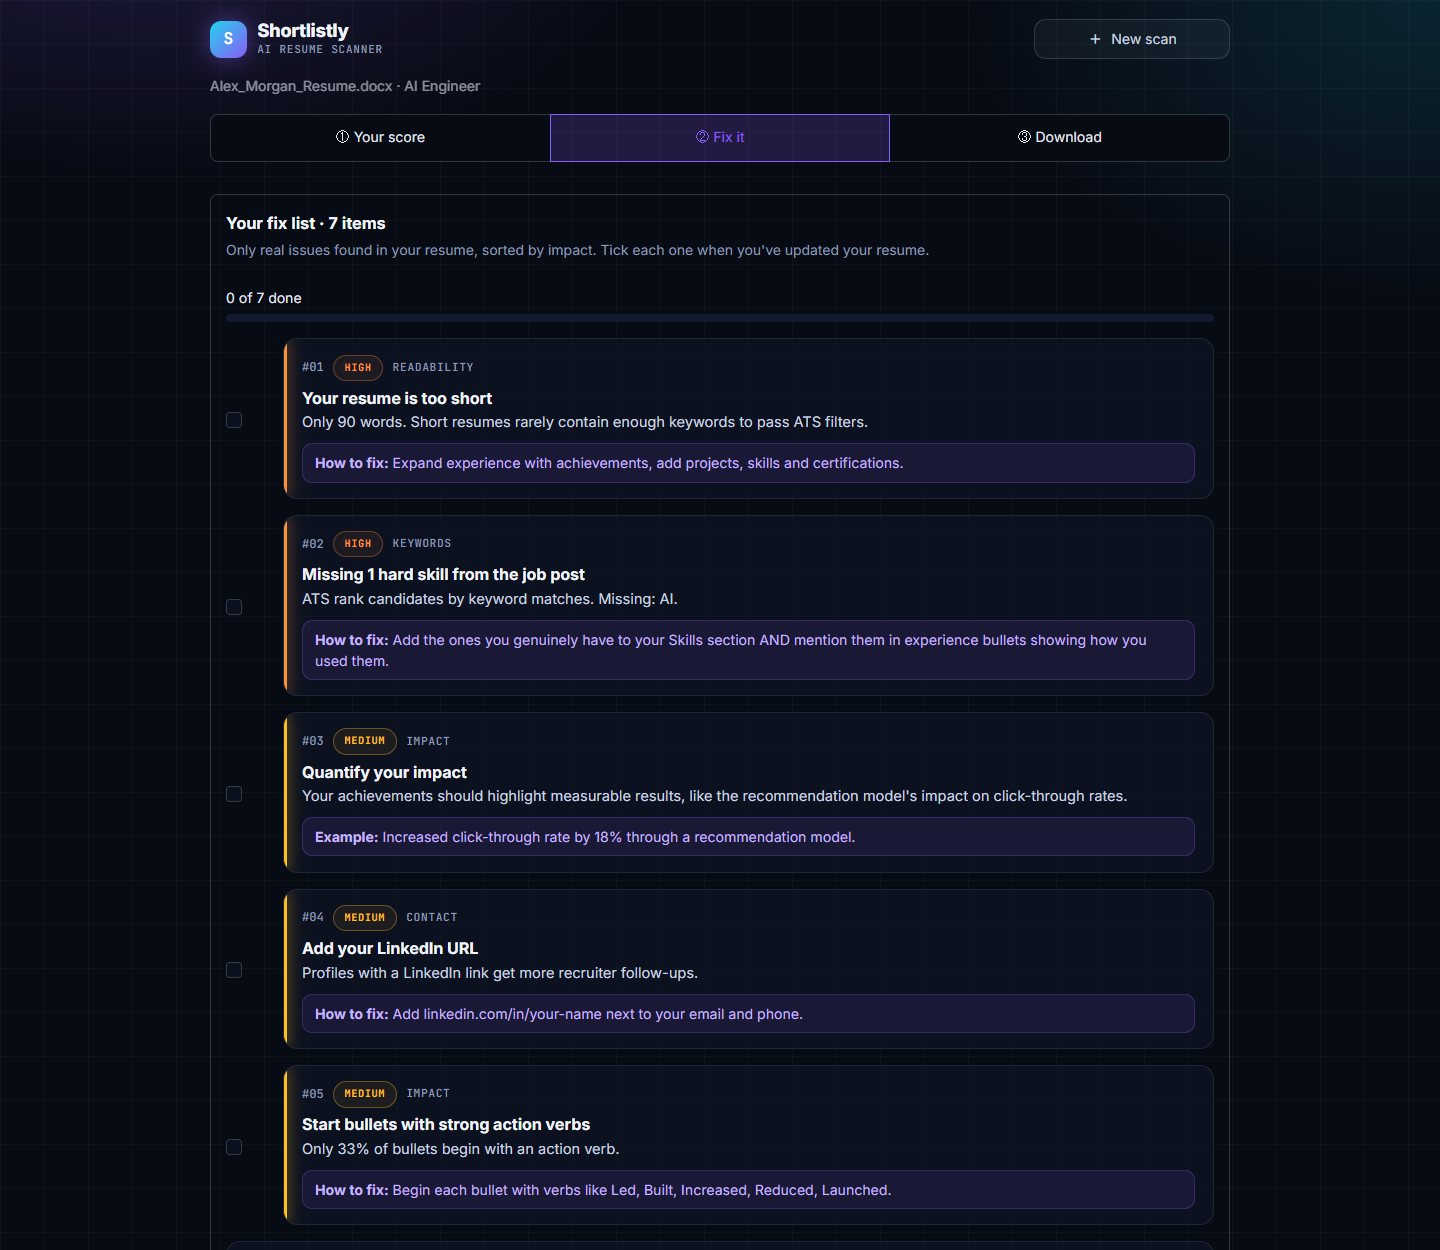
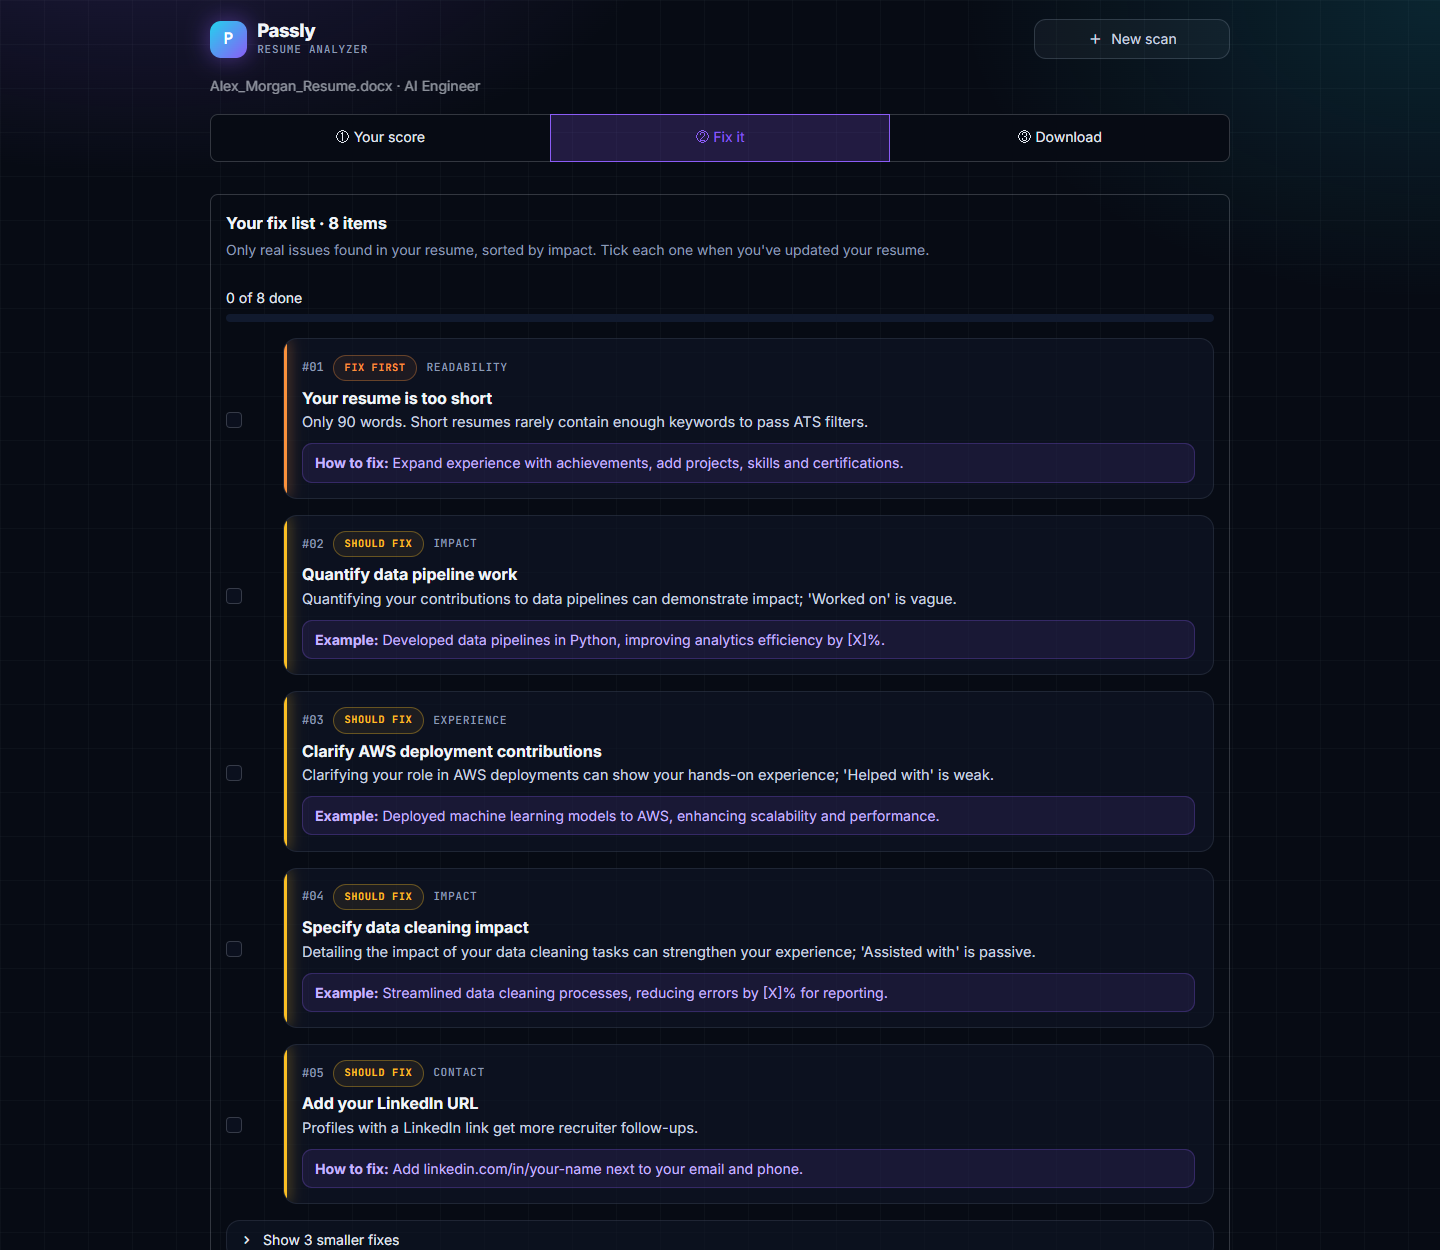
Rename app to Passly (Resume Analyzer); refresh screenshots

diff --git a/frontend/api.py b/frontend/api.py
@@ -1,4 +1,4 @@
-"""Thin client for the Shortlistly FastAPI backend. Every call returns (data, error_message)."""
+"""Thin client for the Passly FastAPI backend. Every call returns (data, error_message)."""
 import os
 
 import requests
@@ -20,7 +20,7 @@ def _post(path, timeout=180, **kwargs):
     try:
         return _handle(requests.post(f"{BACKEND_URL}{path}", timeout=timeout, **kwargs))
     except requests.exceptions.ConnectionError:
-        return None, "Cannot reach the Shortlistly API. Start it with: .\\run.ps1"
+        return None, "Cannot reach the Passly API. Start it with: .\\run.ps1"
     except requests.exceptions.Timeout:
         return None, "The request timed out. Please try again."
     except requests.exceptions.RequestException as e:
@@ -35,10 +35,10 @@ def _get(path, timeout=10):
 
 
 def health():
-    """Returns (data, error). data is None unless the Shortlistly API itself answered."""
+    """Returns (data, error). data is None unless the Passly API itself answered."""
     data, err = _get("/health", timeout=3)
-    if data is not None and data.get("app") != "shortlistly":
-        return None, f"Another program is using {BACKEND_URL}. Run the Shortlistly API on a free port."
+    if data is not None and data.get("app") != "passly":
+        return None, f"Another program is using {BACKEND_URL}. Run the Passly API on a free port."
     return data, err
 
 

diff --git a/backend/main.py b/backend/main.py
@@ -1,4 +1,4 @@
-"""Shortlistly API - ATS resume analysis, AI rewriting, cover letters and interview prep."""
+"""Passly API - ATS resume analysis, AI rewriting, cover letters and interview prep."""
 import hashlib
 import logging
 import re
@@ -18,7 +18,7 @@ from resume_parser import SUPPORTED_EXTENSIONS, extract_resume
 logging.basicConfig(level=logging.INFO)
 MAX_FILE_BYTES = 10 * 1024 * 1024
 
-app = FastAPI(title="Shortlistly API", version="2.0.0")
+app = FastAPI(title="Passly API", version="2.0.0")
 app.add_middleware(CORSMiddleware, allow_origins=["*"], allow_methods=["*"], allow_headers=["*"])
 init_db()
 
@@ -141,7 +141,7 @@ def _ai_call(fn, *args, **kwargs):
 # --------------------------------------------------------------------------- routes
 @app.get("/health")
 def health():
-    return {"app": "shortlistly", "status": "ok", "ai_enabled": ai.ai_enabled(), "model": ai.CHAT_MODEL}
+    return {"app": "passly", "status": "ok", "ai_enabled": ai.ai_enabled(), "model": ai.CHAT_MODEL}
 
 
 @app.post("/analyze")

diff --git a/frontend/ui.py b/frontend/ui.py
@@ -1,10 +1,10 @@
-"""Dark 'tech' design system and HTML components for the Shortlistly UI."""
+"""Dark 'tech' design system and HTML components for the Passly UI."""
 import html
 
 import streamlit as st
 
-APP_NAME = "Shortlistly"
-TAGLINE = "AI Resume Scanner"
+APP_NAME = "Passly"
+TAGLINE = "Resume Analyzer"
 
 # severity -> (label, color)
 SEVERITY = {  # plain-language priority labels (same wording as the PDF report)
@@ -201,7 +201,7 @@ def nav(ok: bool, ai: bool, show_status=True):
         color, text = "#34d399", "System online"
     status = (f'<span class="riq-status" style="color:{color};border-color:{color}55"><span class="dot"></span>{text}</span>'
               if show_status else "")
-    st.html(f"""<div class="riq-nav"><div class="riq-brand"><div class="riq-logo">S</div>
+    st.html(f"""<div class="riq-nav"><div class="riq-brand"><div class="riq-logo">P</div>
       <div><div class="nm">{APP_NAME}</div><div class="tg">{TAGLINE}</div></div></div>{status}</div>""")
 
 

diff --git a/backend/database.py b/backend/database.py
@@ -1,7 +1,7 @@
 """Analysis history storage (SQLAlchemy).
 
 Uses SQLite by default (zero setup). For production set DATABASE_URL, e.g.
-    DATABASE_URL=postgresql+psycopg://user:password@host:5432/shortlistly
+    DATABASE_URL=postgresql+psycopg://user:password@host:5432/passly
 Every record belongs to a ``client_id`` (one per browser session), so users only ever see
 their own scans.
 """
@@ -13,7 +13,7 @@ from sqlalchemy import JSON, DateTime, Float, Integer, String, create_engine, de
 from sqlalchemy.orm import DeclarativeBase, Mapped, Session, mapped_column
 
 DATA_DIR = Path(__file__).resolve().parent / "data"
-DATABASE_URL = os.getenv("DATABASE_URL") or f"sqlite:///{(DATA_DIR / 'shortlistly.db').as_posix()}"
+DATABASE_URL = os.getenv("DATABASE_URL") or f"sqlite:///{(DATA_DIR / 'passly.db').as_posix()}"
 
 if DATABASE_URL.startswith("sqlite"):
     DATA_DIR.mkdir(exist_ok=True)

diff --git a/frontend/app.py b/frontend/app.py
@@ -1,4 +1,4 @@
-"""Shortlistly - Streamlit frontend.
+"""Passly - Streamlit frontend.
 
 User journey:  Upload  ->  1. Your score  ->  2. Fix it  ->  3. Download (+ cover letter / interview prep)
 """
@@ -95,7 +95,7 @@ def landing():
                          disabled=health is None)
 
     if health is None:
-        st.error(f"The Shortlistly API is not reachable. {health_err or ''}\n\n"
+        st.error(f"The Passly API is not reachable. {health_err or ''}\n\n"
                  "Start the app with `.\\run.ps1` from the project folder.", icon=":material/cloud_off:")
 
     if scan:

diff --git a/README.md b/README.md
@@ -1,4 +1,4 @@
-# Shortlistly: AI Resume Analyzer & ATS Checker
+# Passly: AI Resume Analyzer & ATS Checker
 
 <div align="center">
 
@@ -48,7 +48,7 @@ Get an ATS score in about 30 seconds, see exactly which keywords you're missing,
 ## 🎯 Overview
 
 Most companies filter resumes with an **Applicant Tracking System (ATS)** before a human ever sees them.
-**Shortlistly** shows you how your resume performs against those filters, for a specific job or in general,
+**Passly** shows you how your resume performs against those filters, for a specific job or in general,
 and helps you fix it. You get a clear score, a prioritized fix list, and an AI-improved resume you can download.
 
 ### Why Use This Tool?
@@ -170,13 +170,13 @@ All settings are optional and go in `.env`:
 ```env
 OPENAI_MODEL=gpt-4o-mini                       # chat model
 OPENAI_EMBED_MODEL=text-embedding-3-small      # embedding model
-DATABASE_URL=postgresql+psycopg://user:password@localhost:5432/shortlistly   # use PostgreSQL
+DATABASE_URL=postgresql+psycopg://user:password@localhost:5432/passly   # use PostgreSQL
 BACKEND_URL=http://127.0.0.1:8010              # where the frontend finds the API
 ```
 
 ### Database
 
-By default, scan history is stored in SQLite at `backend/data/shortlistly.db`, created automatically on first run.
+By default, scan history is stored in SQLite at `backend/data/passly.db`, created automatically on first run.
 To use PostgreSQL, run `pip install "psycopg[binary]"` and set `DATABASE_URL`.
 
 ---
